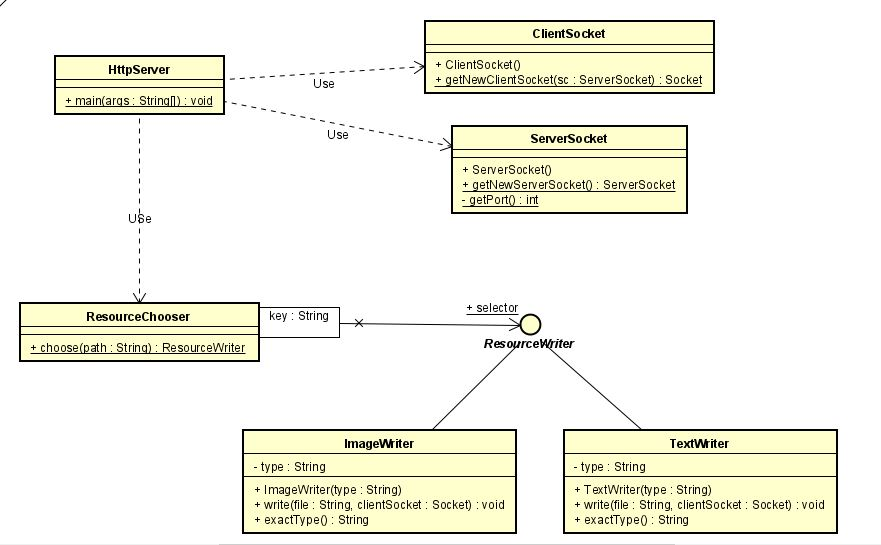
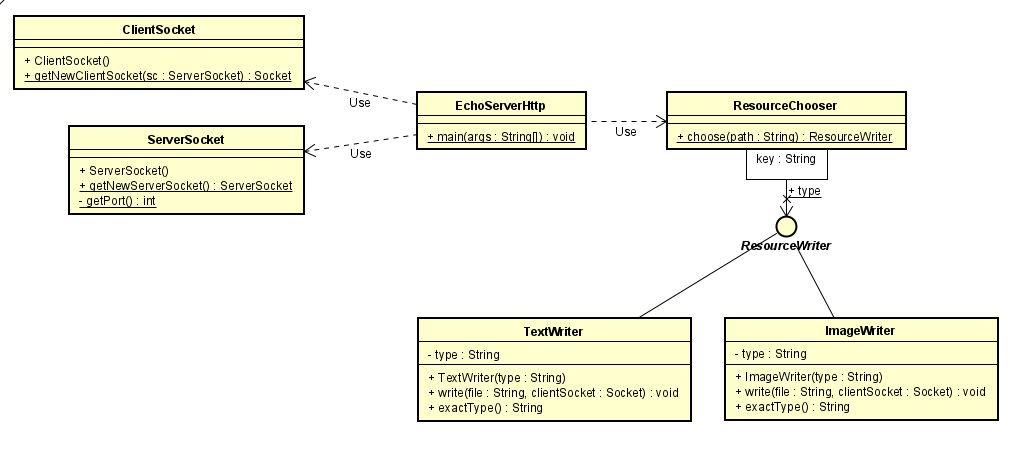
update diagram and add .ico

diff --git a/src/main/java/edu/escuelaing/arsw/servidorWeb/reader/ResourceChooser.java b/src/main/java/edu/escuelaing/arsw/servidorWeb/reader/ResourceChooser.java
@@ -4,20 +4,21 @@ import java.util.HashMap;
 import java.util.Map;
 
 /**
- * select what type of parameter it is if it is png, html, jpg, css or 
- * javascript
+ * select what type of parameter it is if it is png, html, jpg, css, 
+ * javascript or ico
  * 
  * @author vashi
  */
 public class ResourceChooser {
 
-    public static Map<String, ResourceWriter> selector = new HashMap<String, ResourceWriter>() {
+    public static Map<String, ResourceWriter> type = new HashMap<String, ResourceWriter>() {
         {
             put("html", new TextWriter("html"));
             put("png", new ImageWriter("png"));
             put("jpg", new ImageWriter("jpg"));
             put("js", new TextWriter("javascript"));
             put("css", new TextWriter("css"));
+            put("ico", new ImageWriter("ico"));
         }
     };
 
@@ -36,10 +37,10 @@ public class ResourceChooser {
         } catch (ArrayIndexOutOfBoundsException e) {
             throw new Exception(" No es una peticion de Recurso Especifico/ Peticion mal formada");
         }
-        if (!selector.containsKey(resource)) {
+        if (!type.containsKey(resource)) {
             throw new Exception("Recurso no soportado: " + resource);
         }
-        return selector.get(resource);
+        return type.get(resource);
     }
 
 }
